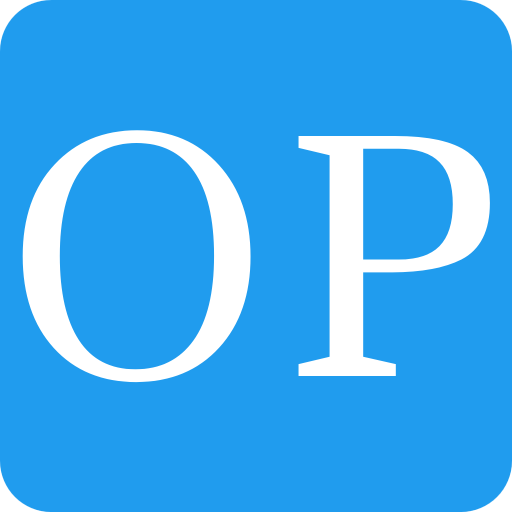
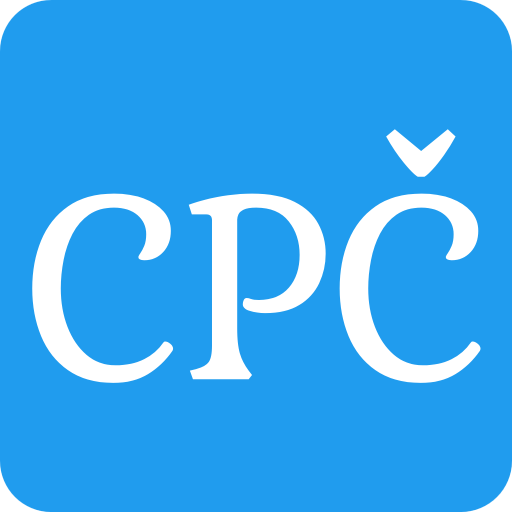
basic style

Changed region(s): [[0.0312, 0.25, 0.9688, 0.75], [0.0938, 0.5625, 0.125, 0.5938]]

diff --git a/src/ui/src/component/Header.tsx b/src/ui/src/component/Header.tsx
@@ -1,20 +1,42 @@
-import {Stack} from "react-bootstrap";
+import {Dropdown, Stack} from "react-bootstrap";
 import {Link} from "react-router";
 import {useUserSession} from "../util/UserSession";
+import {Img} from "./images/Img";
+import {BsPersonCircle} from "react-icons/bs";
+import LightSwitch from "./general/LightSwitch";
+import {useRestClient} from "../client/OpRestClient";
 
 export default function Header() {
 	const session = useUserSession();
+	const restClient = useRestClient();
 
 	return (
 		<header className={`p-3 bg-body-secondary`}>
-			<Stack direction="horizontal" className="justify-content-between align-items-center">
-				<Link to="/admin">
-					Centrální publikace článků
+			<Stack direction="horizontal" className="justify-content-between">
+				<Link to="/" className="brand-logo">
+					<Stack direction="horizontal" gap={2}>
+						<Img
+							url="/android-chrome-192x192.png"
+							maxWidth={50}
+							maxHeight={50}
+						/>
+						<div>
+							Centrální publikace článků
+						</div>
+					</Stack>
 				</Link>
-				<div className="d-flex gap-2 p-2 rounded bg-body text-body">
-					<strong>{session.user.email}</strong>
-					({session.user.userRole})
-				</div>
+				<Dropdown>
+					<Dropdown.Toggle className="d-flex align-items-center gap-2 p-2 rounded bg-body text-body">
+						<BsPersonCircle/>
+						<div>{session.user.email}</div>
+					</Dropdown.Toggle>
+
+					<Dropdown.Menu>
+						<Dropdown.Header>Role: <strong>{session.user.userRole}</strong></Dropdown.Header>
+						<Dropdown.ItemText><LightSwitch/></Dropdown.ItemText>
+						<Dropdown.Item onClick={() => restClient.logout()}>Odhlásit</Dropdown.Item>
+					</Dropdown.Menu>
+				</Dropdown>
 			</Stack>
 		</header>
 	);

diff --git a/src/ui/src/component/MainMenu.tsx b/src/ui/src/component/MainMenu.tsx
@@ -1,26 +1,14 @@
-import {useCallback, useContext} from "react";
 import {NavLink} from "react-router";
 import {Localize} from "zavadil-react-common";
 import {useNavigator} from "../navigator/OpAppNavigator";
-import {useRestClient} from "../client/OpRestClient";
-import {UserAlertsContext} from "../util/UserAlerts";
 import {useUserSession} from "../util/UserSession";
 
 function MainMenu() {
 	const navigator = useNavigator();
-	const restClient = useRestClient();
-	const userAlerts = useContext(UserAlertsContext);
 	const userSession = useUserSession();
 
-	const logOut = useCallback(() => {
-		restClient.logout().then(() => {
-			userAlerts.info("Logged out");
-			navigator.go();
-		});
-	}, [navigator, restClient, userAlerts]);
-
 	return (
-		<div className="main-menu p-3">
+		<div className="main-menu ps-3">
 			<h4 className="mt-2">
 				Publikace
 			</h4>
@@ -49,19 +37,6 @@ function MainMenu() {
 					</div>
 				</>
 			}
-
-			<div>
-				<a
-					href="/odhlasit"
-					onClick={(e) => {
-						e.stopPropagation();
-						e.preventDefault();
-						logOut();
-					}}
-				>
-					<Localize text="Log out"/>
-				</a>
-			</div>
 		</div>
 	);
 }

diff --git a/src/ui/src/component/Main.tsx b/src/ui/src/component/Main.tsx
@@ -10,10 +10,11 @@ import DestinationsList from "./admin/destination/DestinationsList";
 import DestinationDetail from "./admin/destination/DestinationDetail";
 import ArticlesList from "./article/ArticlesList";
 import ArticleDetail from "./article/ArticleDetail";
+import NotFoundPage from "./NotFoundPage";
 
 export default function Main() {
 	return (
-		<main>
+		<main className="pb-3">
 			<Stack direction="horizontal" className="align-items-stretch">
 				<MainMenu/>
 				<div className="flex-grow-1 pb-4">
@@ -49,7 +50,7 @@ export default function Main() {
 							</Route>
 						</Route>
 
-						<Route path="*" element={<span>404</span>}/>
+						<Route path="*" element={<NotFoundPage/>}/>
 					</Routes>
 				</div>
 			</Stack>

diff --git a/src/ui/src/style/general.less b/src/ui/src/style/general.less
@@ -3,7 +3,7 @@
 */
 
 :root {
-	--font-family: "Arial Rounded MT Bold", sans-serif;
+	--font-family: Arial, sans-serif;
 }
 
 body {
@@ -15,17 +15,21 @@ strong, .strong, h1, h2, h3, h4 {
 	font-weight: bold;
 }
 
-.light, small {
-
-}
-
-a {
-
-}
-
 a:hover {
 	text-decoration: none;
+}
 
+a.brand-logo {
+	color: inherit;
+}
+
+.main-menu a,
+a.brand-logo {
+	text-decoration: none;
+}
+
+.main-menu a.active {
+	font-weight: bold;
 }
 
 .error {

diff --git a/src/ui/public/index.html b/src/ui/public/index.html
@@ -7,7 +7,7 @@
 	<link rel="icon" type="image/png" sizes="192x192" href="/android-chrome-192x192.png">
 	<link rel="icon" type="image/png" sizes="512x512" href="/android-chrome-512x512.png">
 	<meta name="viewport" content="width=device-width, initial-scale=1"/>
-	<title>Open Publikace</title>
+	<title>Centrální publikace článků</title>
 </head>
 <body>
 <noscript>Pro běh těchto stránek je vyžadován javascript.</noscript>

diff --git a/src/ui/src/component/Footer.tsx b/src/ui/src/component/Footer.tsx
@@ -12,7 +12,11 @@ function Footer() {
 			.catch((e) => setStatus(String(e)));
 	}, []);
 
-	return <footer className="flex-fill p-3 small bg-body-secondary">{status}</footer>;
+	return <footer className="flex-fill p-3 small text-muted bg-body-secondary">
+		<div className="text-center">
+			Centrální publikace článků, verze {status}
+		</div>
+	</footer>;
 }
 
 export default Footer;

diff --git a/src/ui/src/navigator/OpAppNavigator.ts b/src/ui/src/navigator/OpAppNavigator.ts
@@ -18,6 +18,10 @@ export default class OpAppNavigator extends LinkNavigator {
 		this.articles = new EntityNavigator(navigate, new EntityPathProvider('clanky'));
 	}
 
+	logout() {
+		this.navigate('/odhlasit');
+	}
+
 }
 
 export const OpAppNavigatorContext = createContext<OpAppNavigator | null>(null);

diff --git a/src/ui/src/component/general/LightSwitch.tsx b/src/ui/src/component/general/LightSwitch.tsx
@@ -15,6 +15,7 @@ export default function LightSwitch() {
 				session.theme = isDark ? "light" : "dark";
 				if (sessionUpdate) sessionUpdate({...session});
 			}}
+
 			iconOn={<BsSunFill/>}
 			iconOff={<BsMoonFill/>}
 		/>

diff --git a/src/ui/src/component/NotFoundPage.tsx b/src/ui/src/component/NotFoundPage.tsx
@@ -1,3 +1,3 @@
 export default function NotFoundPage() {
-	return <div>Not found!</div>;
+	return <div>404 - nenalezeno!</div>;
 }
